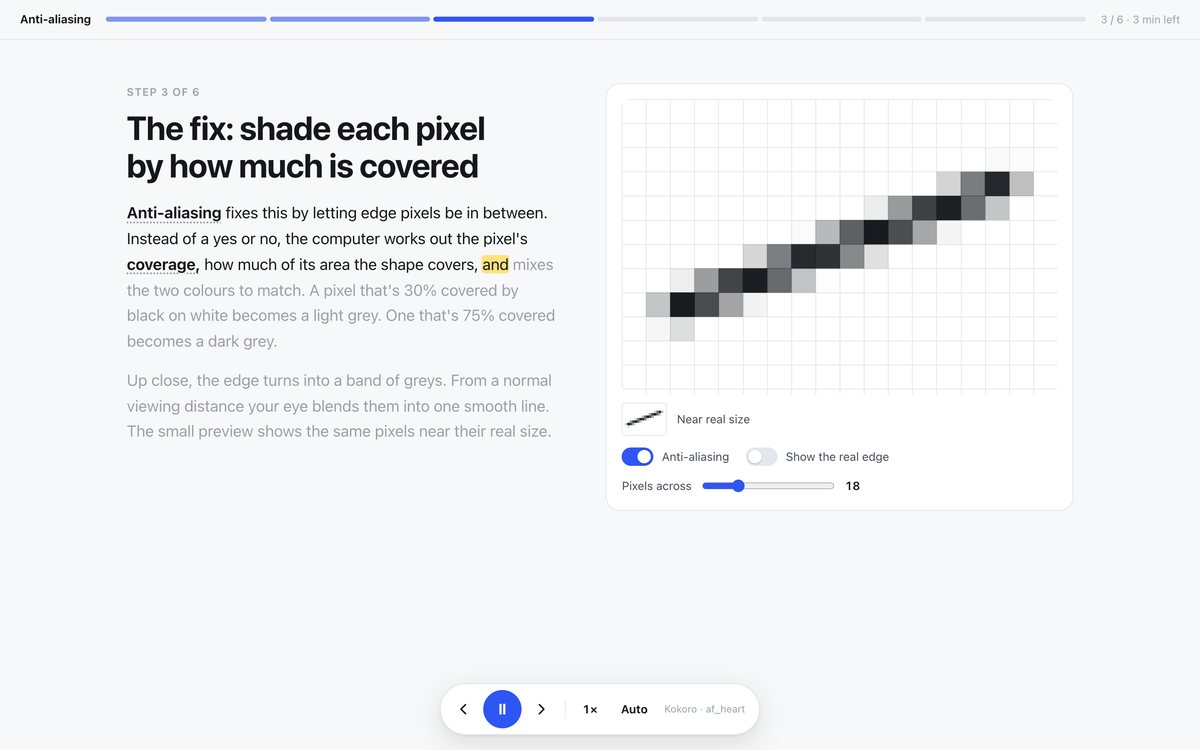
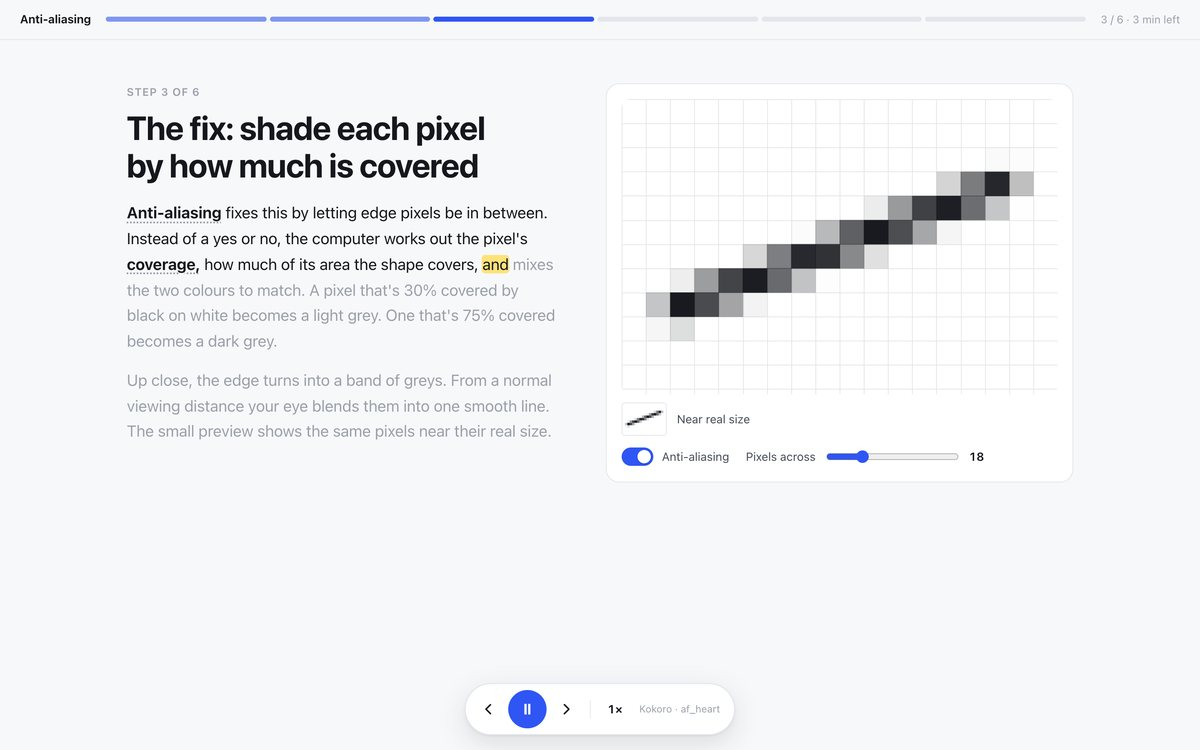
learn-anything: no Auto or Text buttons; each step waits for Next
A step no longer moves on by itself when its narration ends, and the words always show. Next (or the arrow keys)
moves on and reads the next step aloud if you were listening; pause stops that until you press play again. The
README picture shows the new player.

Changed region(s): [[0.5242, 0.5827, 0.8017, 0.6747], [0.4933, 0.92, 0.6167, 0.9507], [0.4008, 0.92, 0.4625, 0.9813]]

diff --git a/skills/qol/charles-learn-anything/kit/player.js b/skills/qol/charles-learn-anything/kit/player.js
@@ -1,5 +1,6 @@
 // The lesson player: one step per screen, predict-first questions, narration that highlights each word as it's read,
-// and speed and auto-advance controls. Lesson data comes from window.LESSON, narration timings from window.NARRATION.
+// and a speed control. Each step waits for the reader; Next moves on and keeps reading aloud if they were listening.
+// Lesson data comes from window.LESSON, narration timings from window.NARRATION.
 (() => {
   const L = window.LESSON, N = window.NARRATION || {};
   const { el } = window.learn;
@@ -11,7 +12,7 @@
     set(k, v) { try { localStorage.setItem('learn:' + k, JSON.stringify(v)); } catch (e) { /* private mode */ } },
   };
   const steps = L.steps || [];
-  const S = { i: -1, playing: false, speed: store.get('speed', 1), auto: store.get('auto', true), answers: {}, view: null, widget: null, run: 0, raf: 0, wait: 0, current: null, voice: undefined };
+  const S = { i: -1, playing: false, speed: store.get('speed', 1), listen: false, answers: {}, view: null, widget: null, run: 0, raf: 0, current: null, voice: undefined };
 
   // ---------- key terms ----------
   const defs = new Map((L.terms || []).map((t) => [t.term.toLowerCase(), t]));
@@ -171,31 +172,36 @@
     S.playing = on;
     player.classList.toggle('playing', on);
     $('#play').setAttribute('aria-label', on ? 'Pause narration (Space)' : 'Play narration (Space)');
-    if (!on) { clearTimeout(S.wait); if (S.current) { if (S.current.mode === 'audio') audio.pause(); else speechSynthesis.pause(); } }
+    if (!on) { if (S.current) { if (S.current.mode === 'audio') audio.pause(); else speechSynthesis.pause(); } }
   }
 
+  // S.listen is whether they want the steps read aloud: play turns it on, pause turns it off.
   function play() {
-    if (S.i < 0 || S.i >= steps.length) { setPlaying(true); go(0, true); return; }
-    setPlaying(true);
-    if (S.current) { if (S.current.mode === 'audio') audio.play(); else speechSynthesis.resume(); return; }
+    S.listen = true;
+    if (S.i < 0 || S.i >= steps.length) { go(0, true); return; }
+    if (S.current) { setPlaying(true); if (S.current.mode === 'audio') audio.play(); else speechSynthesis.resume(); return; }
     const st = steps[S.i];
     if (S.view?.checkShown && st.check && S.answers[st.id + '.c'] == null) return; // waiting for their answer
     if (S.view?.checkShown) { go(S.i + 1, true); return; }
+    setPlaying(true);
     narrate();
   }
+
+  function pause() { S.listen = false; setPlaying(false); }
 
   function narrate() {
     const st = steps[S.i], v = S.view;
     if (!st || !v) return;
-    if (st.predict && S.answers[st.id + '.p'] == null) { speak(st.id + '.q', v.q); return; }
+    if (st.predict && S.answers[st.id + '.p'] == null) { speak(st.id + '.q', v.q, () => setPlaying(false)); return; }
     speak(st.id + '.say', v.say, afterSay);
   }
 
+  // A step never moves on by itself: people look at the picture for different lengths of time, so the step waits
+  // until they press Next.
   function afterSay() {
     const st = steps[S.i];
-    if (st.check && S.answers[st.id + '.c'] == null) { showCheck(); return; }
-    if (S.playing && S.auto) S.wait = setTimeout(() => go(S.i + 1, true), 900);
-    else setPlaying(false);
+    if (st.check && S.answers[st.id + '.c'] == null) showCheck();
+    setPlaying(false);
   }
 
   // ---------- questions ----------
@@ -222,7 +228,7 @@
     const st = steps[S.i], v = S.view;
     if (!st?.check || v.checkShown) return false;
     v.checkShown = true;
-    questionCard(v.checkHost, st.check, 'Check yourself', st.id + '.c', () => { if (S.playing && S.auto) S.wait = setTimeout(() => go(S.i + 1, true), 2600); });
+    questionCard(v.checkHost, st.check, 'Check yourself', st.id + '.c');
     v.checkHost.scrollIntoView({ behavior: 'smooth', block: 'nearest' });
     return true;
   }
@@ -243,9 +249,9 @@
     box.appendChild(el('p', 'meta', 'What you’ll go through'));
     const ol = el('ol', 'outline'); for (const st of steps) ol.appendChild(el('li', null, st.title)); box.appendChild(ol);
     const go0 = el('button', 'go', 'Start'); go0.type = 'button';
-    go0.addEventListener('click', () => { setPlaying(true); go(0, true); });
+    go0.addEventListener('click', () => { S.listen = true; go(0, true); });
     const read = el('button', 'go ghost', 'Read without sound'); read.type = 'button';
-    read.addEventListener('click', () => { setPlaying(false); go(0, false); });
+    read.addEventListener('click', () => { S.listen = false; go(0, false); });
     const row = el('div'); row.style.cssText = 'display:flex;gap:10px;flex-wrap:wrap'; row.append(go0, read);
     box.appendChild(row);
     app.appendChild(box);
@@ -263,7 +269,7 @@
       if (gated) sec.classList.add('gated');
       const q = questionCard(text, st.predict, 'Predict first', st.id + '.p', () => {
         sec.classList.remove('gated');
-        if (S.playing) speak(st.id + '.say', v.say, afterSay);
+        if (S.listen) { setPlaying(true); speak(st.id + '.say', v.say, afterSay); }
       }, true);
       v.q = q.unit;
     }
@@ -310,7 +316,7 @@
     player.hidden = S.i < 0; // the intro's Start button is the only control it needs
     if (S.i < 0) renderIntro(); else if (S.i >= steps.length) renderEnd(); else renderStep(steps[S.i], S.i);
     const prog = $('#progress'); prog.innerHTML = '';
-    steps.forEach((st, k) => { const b = el('button'); b.type = 'button'; b.title = `${k + 1}. ${st.title}`; b.setAttribute('aria-label', `Step ${k + 1}: ${st.title}`); if (k < S.i) b.classList.add('done'); if (k === S.i) b.classList.add('cur'); b.addEventListener('click', () => go(k, S.playing)); prog.appendChild(b); });
+    steps.forEach((st, k) => { const b = el('button'); b.type = 'button'; b.title = `${k + 1}. ${st.title}`; b.setAttribute('aria-label', `Step ${k + 1}: ${st.title}`); if (k < S.i) b.classList.add('done'); if (k === S.i) b.classList.add('cur'); b.addEventListener('click', () => go(k, S.listen)); prog.appendChild(b); });
     updateCount();
   }
 
@@ -319,20 +325,20 @@
     $('#count').textContent = S.i < 0 ? `${steps.length} steps` : S.i >= steps.length ? 'Done' : `${S.i + 1} / ${steps.length} · ${Math.max(1, Math.round(left / (150 * S.speed)))} min left`;
   }
 
-  function go(i, keepPlaying) {
-    clearTimeout(S.wait); stopSpeech();
+  function go(i, readAloud) {
+    stopSpeech();
     try { S.widget?.destroy?.(); } catch (e) { /* ignore */ }
     S.widget = null;
     S.i = Math.max(-1, Math.min(steps.length, i));
     render();
     window.scrollTo(0, 0);
-    if (keepPlaying && S.playing && S.i >= 0 && S.i < steps.length) narrate();
-    else if (S.i >= steps.length || S.i < 0) setPlaying(false);
+    if (readAloud && S.i >= 0 && S.i < steps.length) { setPlaying(true); narrate(); }
+    else setPlaying(false);
   }
 
   function next() {
-    if (S.i >= 0 && S.i < steps.length && steps[S.i].check && S.answers[steps[S.i].id + '.c'] == null && !S.view.checkShown) { stopSpeech(); showCheck(); return; }
-    go(S.i + 1, S.playing);
+    if (S.i >= 0 && S.i < steps.length && steps[S.i].check && S.answers[steps[S.i].id + '.c'] == null && !S.view.checkShown) { stopSpeech(); setPlaying(false); showCheck(); return; }
+    go(S.i + 1, S.listen);
   }
 
   // ---------- controls ----------
@@ -344,19 +350,16 @@
   // Above 1.5x, comprehension drops measurably, so those speeds are labelled for review.
   const speedLabel = (s) => (s > 1.5 ? `${s}× review` : `${s}×`);
   function setSpeed(s) { S.speed = s; store.set('speed', s); audio.playbackRate = s; $('#speed').textContent = speedLabel(s); updateCount(); }
-  const setText = (on) => { S.text = on; store.set('text', on); document.body.classList.toggle('no-text', !on); $('#text').setAttribute('aria-pressed', on); };
-  $('#text').addEventListener('click', () => setText(!S.text));
-  $('#play').addEventListener('click', () => (S.playing ? setPlaying(false) : play()));
+  $('#play').addEventListener('click', () => (S.playing ? pause() : play()));
   $('#next').addEventListener('click', next);
-  $('#prev').addEventListener('click', () => go(S.i - 1, S.playing));
+  $('#prev').addEventListener('click', () => go(S.i - 1, S.listen));
   $('#home').addEventListener('click', () => go(-1, false));
   $('#speed').addEventListener('click', () => setSpeed(SPEEDS[(SPEEDS.indexOf(S.speed) + 1) % SPEEDS.length] || 1));
-  $('#auto').addEventListener('click', () => { S.auto = !S.auto; store.set('auto', S.auto); $('#auto').setAttribute('aria-pressed', S.auto); });
   document.addEventListener('keydown', (e) => {
     if (e.target.closest('input, textarea, select') || e.metaKey || e.ctrlKey || e.altKey) return;
-    if (e.key === ' ') { if (e.target.closest('button')) return; e.preventDefault(); S.playing ? setPlaying(false) : play(); }
+    if (e.key === ' ') { if (e.target.closest('button')) return; e.preventDefault(); S.playing ? pause() : play(); }
     else if (e.key === 'ArrowRight') next();
-    else if (e.key === 'ArrowLeft') go(S.i - 1, S.playing);
+    else if (e.key === 'ArrowLeft') go(S.i - 1, S.listen);
     else if (e.key === ']' || e.key === '=' || e.key === '+') setSpeed(SPEEDS[Math.min(SPEEDS.length - 1, SPEEDS.indexOf(S.speed) + 1)]);
     else if (e.key === '[' || e.key === '-') setSpeed(SPEEDS[Math.max(0, SPEEDS.indexOf(S.speed) - 1)]);
   });
@@ -373,8 +376,6 @@
   window.addEventListener('scroll', () => { tip.hidden = true; }, { passive: true });
 
   $('#speed').textContent = speedLabel(S.speed);
-  $('#auto').setAttribute('aria-pressed', S.auto);
-  setText(store.get('text', true));
   setVoiceLabel();
   render();
 })();

diff --git a/skills/qol/charles-learn-anything/kit/page.css b/skills/qol/charles-learn-anything/kit/page.css
@@ -121,8 +121,6 @@ main { max-width: 1200px; margin: 0 auto; padding: 52px 32px 150px; }
 .player .i-pause, .player.playing .i-play { display: none; }
 .player.playing .i-pause { display: block; }
 .player .text-btn { width: auto; padding: 0 12px; border-radius: 999px; font-size: 14px; font-weight: 650; font-variant-numeric: tabular-nums; }
-.player #auto[aria-pressed=false], .player #text[aria-pressed=false] { color: var(--ink-3); text-decoration: line-through; }
-.no-text .say { display: none; }
 .outline { margin: 0 0 30px; padding-left: 22px; color: var(--ink-2); font-size: 17px; display: grid; gap: 4px; }
 .sep { width: 1px; height: 22px; background: var(--line); margin: 0 4px; }
 .voice { font-size: 12px; color: var(--ink-3); padding: 0 10px 0 4px; white-space: nowrap; }

diff --git a/skills/qol/charles-learn-anything/kit/template.html b/skills/qol/charles-learn-anything/kit/template.html
@@ -19,8 +19,6 @@
   <button id="next" type="button" aria-label="Next step (Right arrow)"><svg viewBox="0 0 24 24" aria-hidden="true"><path d="M9 6l6 6-6 6"/></svg></button>
   <span class="sep" aria-hidden="true"></span>
   <button id="speed" type="button" class="text-btn" aria-label="Narration speed">1×</button>
-  <button id="auto" type="button" class="text-btn" aria-pressed="true" title="Move to the next step when the narration ends">Auto</button>
-  <button id="text" type="button" class="text-btn" aria-pressed="true" title="Hide the words to just listen and watch">Text</button>
   <span class="voice" id="voice"></span>
 </div>
 <div class="tip" id="tip" role="tooltip" hidden></div>

diff --git a/skills/qol/charles-learn-anything/references/learning.md b/skills/qol/charles-learn-anything/references/learning.md
@@ -19,7 +19,7 @@ From [Mayer's 2023 summary](https://www.unh.edu/teaching-learning-resource-hub/s
 | Generative activity | 37/44, d 0.71 | Questions make the learner produce the answer |
 | Signaling | 26/28, d 0.70 | The outline up front, statements as titles, key terms in bold |
 | Segmenting | 7/7, d 0.67 | One idea per screen, moved through by the learner |
-| Redundancy | 8/12, d 0.10 | Weak, and it reverses when the learner sets the pace and the text is short, which is why the page shows the narrated words. The Text button hides them for anyone who'd rather just listen and watch |
+| Redundancy | 8/12, d 0.10 | Weak, and it reverses when the learner sets the pace and the text is short, which is why the page always shows the narrated words |
 | Image | 4/7, d 0.19 | No presenter photo or mascot |
 
 ## Questions
